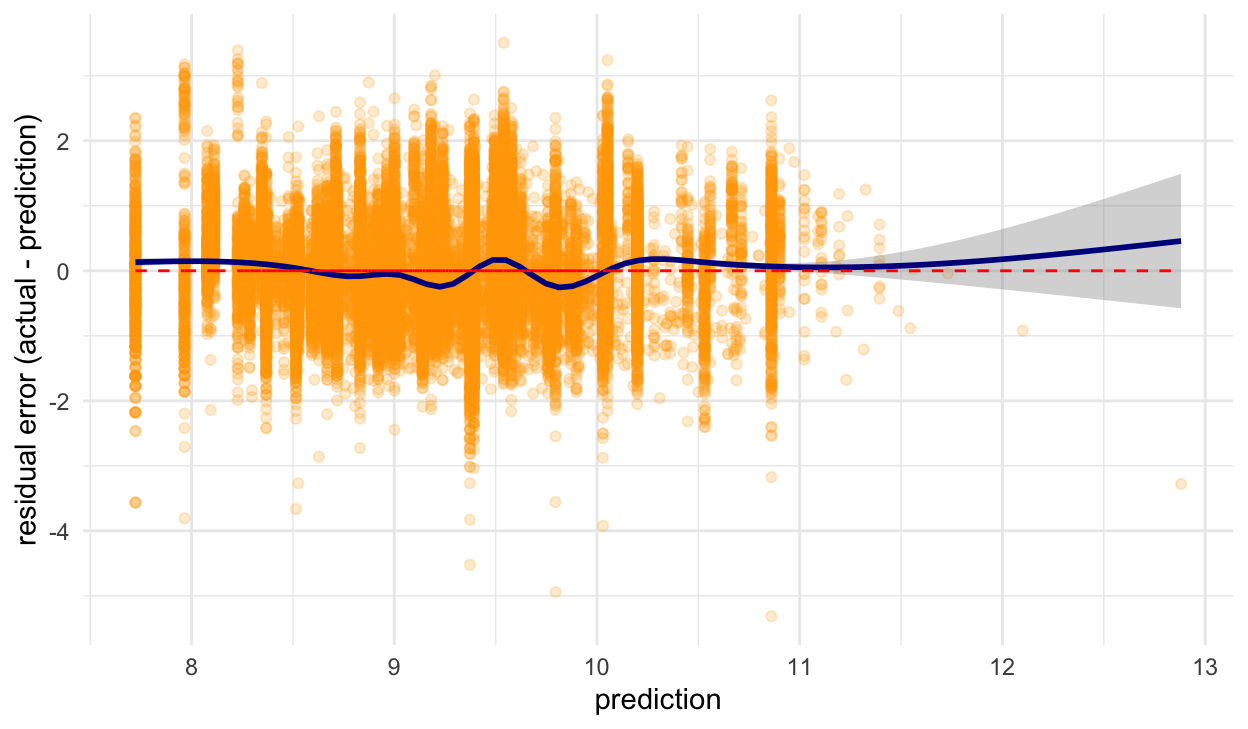
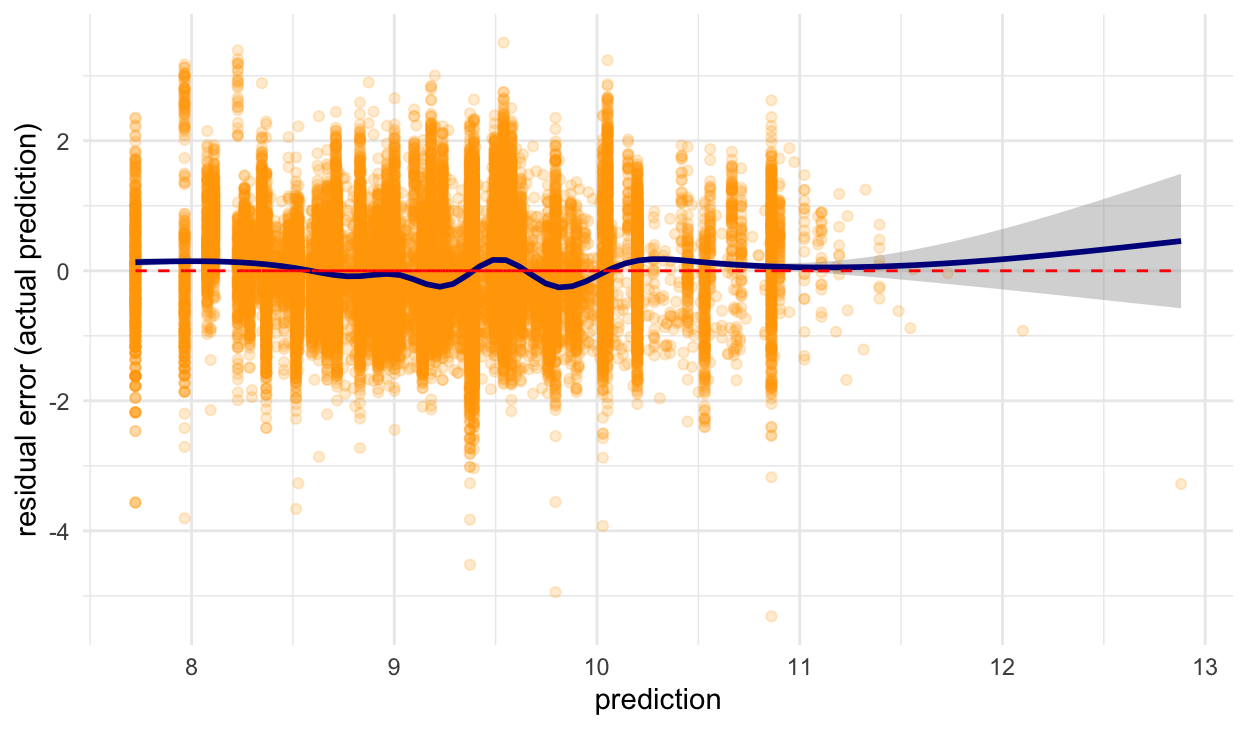
lec

Changed region(s): [[0.0, 0.1509, 0.0312, 0.7545]]

diff --git a/lec01.html b/lec01.html
@@ -87,7 +87,7 @@ code span.wa { color: #5e5e5e; font-style: italic; } /* Warning */
 
 
   <!--radix_placeholder_meta_tags-->
-  <title>byeong-hak choe: Lecture - Price Elasticities of Orange Juice Demand</title>
+  <title>byeong-hak choe: Lecture Price Elasticities of Orange Juice Demand</title>
 
 
 
@@ -97,20 +97,20 @@ code span.wa { color: #5e5e5e; font-style: italic; } /* Warning */
   <meta name="article:author" content="Byeong-Hak Choe"/>
 
   <!--  https://developers.facebook.com/docs/sharing/webmasters#markup -->
-  <meta property="og:title" content="byeong-hak choe: Lecture - Price Elasticities of Orange Juice Demand"/>
+  <meta property="og:title" content="byeong-hak choe: Lecture Price Elasticities of Orange Juice Demand"/>
   <meta property="og:type" content="article"/>
   <meta property="og:locale" content="en_US"/>
   <meta property="og:site_name" content="byeong-hak choe"/>
 
   <!--  https://dev.twitter.com/cards/types/summary -->
   <meta property="twitter:card" content="summary"/>
-  <meta property="twitter:title" content="byeong-hak choe: Lecture - Price Elasticities of Orange Juice Demand"/>
+  <meta property="twitter:title" content="byeong-hak choe: Lecture Price Elasticities of Orange Juice Demand"/>
 
   <!--/radix_placeholder_meta_tags-->
   <!--radix_placeholder_rmarkdown_metadata-->
 
   <script type="text/json" id="radix-rmarkdown-metadata">
-  {"type":"list","attributes":{"names":{"type":"character","attributes":{},"value":["title","author","date"]}},"value":[{"type":"character","attributes":{},"value":["Lecture - Price Elasticities of Orange Juice Demand"]},{"type":"list","attributes":{},"value":[{"type":"list","attributes":{"names":{"type":"character","attributes":{},"value":["name"]}},"value":[{"type":"character","attributes":{},"value":["Byeong-Hak Choe"]}]}]},{"type":"character","attributes":{},"value":["February 4, 2022"]}]}
+  {"type":"list","attributes":{"names":{"type":"character","attributes":{},"value":["title","author","date"]}},"value":[{"type":"character","attributes":{},"value":["Lecture Price Elasticities of Orange Juice Demand"]},{"type":"list","attributes":{},"value":[{"type":"list","attributes":{"names":{"type":"character","attributes":{},"value":["name"]}},"value":[{"type":"character","attributes":{},"value":["Byeong-Hak Choe"]}]}]},{"type":"character","attributes":{},"value":["February 4, 2022"]}]}
   </script>
   <!--/radix_placeholder_rmarkdown_metadata-->
   <!--radix_placeholder_navigation_in_header-->
@@ -2443,7 +2443,7 @@ code span.wa { color: #5e5e5e; font-style: italic; } /* Warning */
 <!--radix_placeholder_front_matter-->
 
 <script id="distill-front-matter" type="text/json">
-{"title":"Lecture - Price Elasticities of Orange Juice Demand","authors":[{"author":"Byeong-Hak Choe","authorURL":"#","affiliation":"&nbsp;","affiliationURL":"#","orcidID":""}],"publishedDate":"2022-02-04T00:00:00.000-05:00","citationText":"Choe, 2022"}
+{"title":"Lecture Price Elasticities of Orange Juice Demand","authors":[{"author":"Byeong-Hak Choe","authorURL":"#","affiliation":"&nbsp;","affiliationURL":"#","orcidID":""}],"publishedDate":"2022-02-04T00:00:00.000-05:00","citationText":"Choe, 2022"}
 </script>
 
 <!--/radix_placeholder_front_matter-->
@@ -2480,7 +2480,7 @@ LECTURE
 <!--/radix_placeholder_site_before_body-->
 
 <div class="d-title">
-<h1>Lecture - Price Elasticities of Orange Juice Demand</h1>
+<h1>Lecture Price Elasticities of Orange Juice Demand</h1>
 <!--radix_placeholder_categories-->
 <!--/radix_placeholder_categories-->
 
@@ -2496,18 +2496,12 @@ LECTURE
 <div class="d-article">
 <p>This is an example of the lecture on estimating price elasticity via the model of linear regression with interaction terms using data for orange juice sales. The example is taken from the book, “<a href="https://www.amazon.com/Business-Data-Science-Combining-Accelerate/dp/1260452778">Business Data Science: Combining Machine Learning and Economics to Optimize, Automate, and Accelerate Business Decisions</a>,” and modified by Byeong-Hak Choe.</p>
 <h1 id="orange-juice-regression">Orange juice regression</h1>
-<!-- ## Price elasticity of demand -->
-<ul>
-<li>Price elasticity of demand measures how sensitive the quantity demanded is to its price.</li>
-</ul>
+<h2 id="price-elasticity-of-demand">Price elasticity of demand</h2>
+<p>Price elasticity of demand measures how sensitive the quantity demanded is to its price.</p>
 <p><span class="math inline">\(\texttt{Price elasticity of demand} = \dfrac{\texttt{% Change in quantity demanded}}{\texttt{% Change in price}}\)</span></p>
-<ul>
-<li><p>The concept of the elasticity plays an important role in industries.</p>
-<ul>
-<li>Marketers need to understand how consumers are sensitive to fluctuations in price.</li>
-</ul></li>
-</ul>
-<!-- ## Loading R packages and orange juice data -->
+<p>The concept of the elasticity plays an important role in industries.</p>
+<p>Marketers need to understand how consumers are sensitive to fluctuations in price.</p>
+<h2 id="loading-r-packages-and-orange-juice-data">Loading R packages and orange juice data</h2>
 <div class="layout-chunk" data-layout="l-body">
 <div class="sourceCode">
 <pre class="sourceCode r"><code class="sourceCode r"><span class='co'># install.packages("")  # in case you need to install the following R packages</span>
@@ -2520,9 +2514,7 @@ LECTURE
 </code></pre>
 </div>
 </div>
-<ul>
-<li>We will use weekly sales data for orange juice (OJ) from Dominick’s grocery stores in the 1990s.</li>
-</ul>
+<p>We will use weekly sales data for orange juice (OJ) from Dominick’s grocery stores in the 1990s.</p>
 <div class="layout-chunk" data-layout="l-body">
 <div class="sourceCode">
 <pre class="sourceCode r"><code class="sourceCode r"><span class='va'>oj</span> <span class='op'>&lt;-</span> <span class='fu'><a href='https://rdrr.io/r/utils/read.table.html'>read.table</a></span><span class='op'>(</span>
@@ -2534,8 +2526,8 @@ LECTURE
 </code></pre>
 </div>
 </div>
-<!-- # Descriptive statistics -->
-<!-- ## OJ data -->
+<h1 id="descriptive-statistics">Descriptive statistics</h1>
+<h2 id="oj-data">OJ data</h2>
 <div class="layout-chunk" data-layout="l-body">
 <div class="sourceCode">
 <pre class="sourceCode r"><code class="sourceCode r"><span class='fu'><a href='https://rdrr.io/r/utils/head.html'>head</a></span><span class='op'>(</span><span class='va'>oj</span><span class='op'>)</span>
@@ -2687,11 +2679,9 @@ LECTURE
 </tbody>
 </table>
 </div>
-<!-- # Visualizing OJ data -->
-<!-- ## Distribution of OJ prices -->
-<ul>
-<li>It is better to use a logarithmic scale when percent change matters.</li>
-</ul>
+<h1 id="visualizing-oj-data">Visualizing OJ data</h1>
+<h2 id="distribution-of-oj-prices">Distribution of OJ prices</h2>
+<p>It is better to use a logarithmic scale when percent change matters.</p>
 <div class="layout-chunk" data-layout="l-body">
 <div class="sourceCode">
 <pre class="sourceCode r"><code class="sourceCode r"><span class='fu'><a href='https://ggplot2.tidyverse.org/reference/ggplot.html'>ggplot</a></span><span class='op'>(</span>data <span class='op'>=</span> <span class='va'>oj</span><span class='op'>)</span> <span class='op'>+</span> 
@@ -2701,7 +2691,7 @@ LECTURE
 </div>
 <p><img src="lec01_files/figure-html5/unnamed-chunk-6-1.png" width="624" style="display: block; margin: auto;" /></p>
 </div>
-<!-- ## Distribution of OJ sales -->
+<h2 id="distribution-of-oj-sales">Distribution of OJ sales</h2>
 <div class="layout-chunk" data-layout="l-body">
 <div class="sourceCode">
 <pre class="sourceCode r"><code class="sourceCode r"><span class='fu'><a href='https://ggplot2.tidyverse.org/reference/ggplot.html'>ggplot</a></span><span class='op'>(</span>data <span class='op'>=</span> <span class='va'>oj</span><span class='op'>)</span> <span class='op'>+</span> 
@@ -2711,7 +2701,7 @@ LECTURE
 </div>
 <p><img src="lec01_files/figure-html5/unnamed-chunk-7-1.png" width="624" style="display: block; margin: auto;" /></p>
 </div>
-<!-- ## Demand for OJ -->
+<h2 id="demand-for-oj">Demand for OJ</h2>
 <div class="layout-chunk" data-layout="l-body">
 <div class="sourceCode">
 <pre class="sourceCode r"><code class="sourceCode r"><span class='fu'><a href='https://ggplot2.tidyverse.org/reference/ggplot.html'>ggplot</a></span><span class='op'>(</span>data <span class='op'>=</span> <span class='va'>oj</span>, <span class='fu'><a href='https://ggplot2.tidyverse.org/reference/aes.html'>aes</a></span><span class='op'>(</span> x <span class='op'>=</span> <span class='fu'><a href='https://rdrr.io/r/base/Log.html'>log</a></span><span class='op'>(</span><span class='va'>price</span><span class='op'>)</span>, y <span class='op'>=</span> <span class='fu'><a href='https://rdrr.io/r/base/Log.html'>log</a></span><span class='op'>(</span><span class='va'>sales</span><span class='op'>)</span>, 
@@ -2721,21 +2711,15 @@ LECTURE
 </div>
 <p><img src="lec01_files/figure-html5/unnamed-chunk-8-1.png" width="624" style="display: block; margin: auto;" /></p>
 </div>
-<!-- # Regression models -->
-<!-- ## Regression model with brand dummies -->
-<ul>
-<li>The regression model for price elasticity of OJ demand can be written as:</li>
-</ul>
+<h1 id="regression-models">Regression models</h1>
+<h2 id="regression-model-with-brand-dummies">Regression model with brand dummies</h2>
+<p>The regression model for price elasticity of OJ demand can be written as:</p>
 <p><span class="math inline">\(\log(\texttt{sales}) = \alpha_{\texttt{brand}} + \beta\log(\texttt{price}) + \epsilon\)</span></p>
-<ul>
-<li>Here <span class="math inline">\(\alpha_{\texttt{brand}}\)</span> is shorthand for a separate indicator for each OJ brand:</li>
-</ul>
+<p>Here <span class="math inline">\(\alpha_{\texttt{brand}}\)</span> is shorthand for a separate indicator for each OJ brand:</p>
 <p><span class="math inline">\(\alpha_{\texttt{brand}} = \alpha_{\texttt{d}}1_{\texttt{[brand=dominicks]}}+\alpha_{\texttt{m}}1_{\texttt{[brand=minut.emaid]}}+\alpha_{\texttt{t}}1_{\texttt{[brand=tropicana]}}\)</span></p>
-<ul>
-<li>Here <span class="math inline">\(\beta\)</span> measures the price elasticity of OJ demand:</li>
-</ul>
+<p>Here <span class="math inline">\(\beta\)</span> measures the price elasticity of OJ demand:</p>
 <p><span class="math inline">\(\beta = \dfrac{\Delta\log(\texttt{sales})}{\Delta\log(\texttt{price})}\\\hspace{.25cm} = \texttt{(% change in sales)} / \texttt{(% change in price)}\)</span></p>
-<!-- ## Run the model  -->
+<h2 id="run-the-model">Run the model</h2>
 <div class="layout-chunk" data-layout="l-body">
 <div class="sourceCode">
 <pre class="sourceCode r"><code class="sourceCode r"><span class='va'>reg_oj1</span> <span class='op'>&lt;-</span> <span class='fu'><a href='https://rdrr.io/r/stats/lm.html'>lm</a></span><span class='op'>(</span><span class='fu'><a href='https://rdrr.io/r/base/Log.html'>log</a></span><span class='op'>(</span><span class='va'>sales</span><span class='op'>)</span> <span class='op'>~</span> <span class='fu'><a href='https://rdrr.io/r/base/Log.html'>log</a></span><span class='op'>(</span><span class='va'>price</span><span class='op'>)</span> <span class='op'>+</span> <span class='va'>brand</span>, 
@@ -2893,7 +2877,7 @@ F Statistic
 </tr>
 </table>
 </div>
-<!-- ## Regression lines -->
+<h2 id="regression-lines">Regression lines</h2>
 <div class="layout-chunk" data-layout="l-body">
 <div class="sourceCode">
 <pre class="sourceCode r"><code class="sourceCode r"><span class='fu'><a href='https://ggplot2.tidyverse.org/reference/ggplot.html'>ggplot</a></span><span class='op'>(</span>data <span class='op'>=</span> <span class='va'>oj</span>, <span class='fu'><a href='https://ggplot2.tidyverse.org/reference/aes.html'>aes</a></span><span class='op'>(</span>x <span class='op'>=</span> <span class='fu'><a href='https://rdrr.io/r/base/Log.html'>log</a></span><span class='op'>(</span><span class='va'>price</span><span class='op'>)</span>, y <span class='op'>=</span> <span class='fu'><a href='https://rdrr.io/r/base/Log.html'>log</a></span><span class='op'>(</span><span class='va'>sales</span><span class='op'>)</span>, 
@@ -2904,17 +2888,13 @@ F Statistic
 </div>
 <p><img src="lec01_files/figure-html5/unnamed-chunk-10-1.png" width="624" style="display: block; margin: auto;" /></p>
 </div>
-<!-- ## Regerssion model with interaction terms -->
-<ul>
-<li><p>How does consumer price sensitivity change across brands?</p></li>
-<li><p>The new regression model can be written as:</p></li>
-</ul>
+<h2 id="regerssion-model-with-interaction-terms">Regerssion model with interaction terms</h2>
+<p>How does consumer price sensitivity change across brands?</p>
+<p>The new regression model can be written as:</p>
 <p><span class="math inline">\(\log(\texttt{sales}) = \alpha_{\texttt{brand}} + \beta_{\texttt{brand}}\log(\texttt{price}) + \epsilon\)</span></p>
-<ul>
-<li>Here <span class="math inline">\(\beta_{\texttt{brand}}\)</span> is shorthand for the brand-specific price elasticity:</li>
-</ul>
+<p>Here <span class="math inline">\(\beta_{\texttt{brand}}\)</span> is shorthand for the brand-specific price elasticity:</p>
 <p><span class="math inline">\(\beta_{\texttt{brand}} = \hspace{.1cm}\beta_{\texttt{d}}1_{\texttt{[brand=dominicks]}}+\beta_{\texttt{m}}1_{\texttt{[brand=minutemaid]}}+\beta_{\texttt{t}}1_{\texttt{[brand=tropicana]}}\hspace{.1cm}\)</span></p>
-<!-- ## Run the model -->
+<h2 id="run-the-model-1">Run the model</h2>
 <div class="layout-chunk" data-layout="l-body">
 <div class="sourceCode">
 <pre class="sourceCode r"><code class="sourceCode r"><span class='va'>reg_oj2</span> <span class='op'>&lt;-</span> <span class='fu'><a href='https://rdrr.io/r/stats/lm.html'>lm</a></span><span class='op'>(</span><span class='fu'><a href='https://rdrr.io/r/base/Log.html'>log</a></span><span class='op'>(</span><span class='va'>sales</span><span class='op'>)</span> <span class='op'>~</span> <span class='fu'><a href='https://rdrr.io/r/base/Log.html'>log</a></span><span class='op'>(</span><span class='va'>price</span><span class='op'>)</span><span class='op'>*</span><span class='va'>brand</span>, 
@@ -3175,7 +3155,7 @@ F Statistic
 </tr>
 </table>
 </div>
-<!-- ## Regression lines  -->
+<h2 id="regression-lines-1">Regression lines</h2>
 <div class="layout-chunk" data-layout="l-body">
 <div class="sourceCode">
 <pre class="sourceCode r"><code class="sourceCode r"><span class='fu'><a href='https://ggplot2.tidyverse.org/reference/ggplot.html'>ggplot</a></span><span class='op'>(</span>data <span class='op'>=</span> <span class='va'>oj</span>, <span class='fu'><a href='https://ggplot2.tidyverse.org/reference/aes.html'>aes</a></span><span class='op'>(</span>x <span class='op'>=</span> <span class='fu'><a href='https://rdrr.io/r/base/Log.html'>log</a></span><span class='op'>(</span><span class='va'>price</span><span class='op'>)</span>, y <span class='op'>=</span> <span class='fu'><a href='https://rdrr.io/r/base/Log.html'>log</a></span><span class='op'>(</span><span class='va'>sales</span><span class='op'>)</span>, 
@@ -3186,17 +3166,13 @@ F Statistic
 </div>
 <p><img src="lec01_files/figure-html5/unnamed-chunk-12-1.png" width="624" style="display: block; margin: auto;" /></p>
 </div>
-<!-- ## Advertisement effect -->
-<ul>
-<li><p>How does consumer price sensitivity change with advertisement?</p></li>
-<li><p>The new regression model can be written as:</p></li>
-</ul>
+<h2 id="advertisement-effect">Advertisement effect</h2>
+<p>How does consumer price sensitivity change with advertisement?</p>
+<p>The new regression model can be written as:</p>
 <p><span class="math inline">\(\log(\texttt{sales}) = \alpha_{\texttt{brand,feat}} + \beta_{\texttt{brand,feat}}\log(\texttt{price}) + \epsilon\)</span></p>
-<ul>
-<li>Here <span class="math inline">\(\beta_{\texttt{brand,feat}}\)</span> measures the brand-feat-specific price elasticity:</li>
-</ul>
+<p>Here <span class="math inline">\(\beta_{\texttt{brand,feat}}\)</span> measures the brand-feat-specific price elasticity:</p>
 <p><span class="math inline">\(\beta_{\texttt{brand,feat}} = \hspace{.3cm}(\hspace{.1cm} \beta_{\texttt{d,no_ad}}1_{\texttt{[brand=dominicks]}}+\beta_{\texttt{m,no_ad}}1_{\texttt{[brand=minutemaid]}}\\\hspace{5.25cm}+\beta_{\texttt{t,no_ad}}1_{\texttt{[brand=tropicana]}}\hspace{.1cm})\times1_{\texttt{[feat=0]}}\\ \hspace{4.25cm} + (\hspace{.1cm}\beta_{\texttt{d,ad}}1_{\texttt{[brand=dominicks]}}+\beta_{\texttt{m,ad}}1_{\texttt{[brand=minutemaid]}}\\\hspace{5.25cm}+\beta_{\texttt{t,ad}}1_{\texttt{[brand=tropicana]}}\hspace{.1cm})\times1_{\texttt{[feat=1]}}\)</span></p>
-<!-- ## Run the model -->
+<h2 id="run-the-model-2">Run the model</h2>
 <div class="layout-chunk" data-layout="l-body">
 <div class="sourceCode">
 <pre class="sourceCode r"><code class="sourceCode r"><span class='va'>reg_oj3</span> <span class='op'>&lt;-</span> <span class='fu'><a href='https://rdrr.io/r/stats/lm.html'>lm</a></span><span class='op'>(</span><span class='fu'><a href='https://rdrr.io/r/base/Log.html'>log</a></span><span class='op'>(</span><span class='va'>sales</span><span class='op'>)</span> <span class='op'>~</span> <span class='fu'><a href='https://rdrr.io/r/base/Log.html'>log</a></span><span class='op'>(</span><span class='va'>price</span><span class='op'>)</span><span class='op'>*</span><span class='va'>brand</span><span class='op'>*</span><span class='va'>feat</span>, 
@@ -3713,7 +3689,7 @@ F Statistic
 </tr>
 </table>
 </div>
-<!-- ## Regression lines -->
+<h2 id="regression-lines-2">Regression lines</h2>
 <div class="layout-chunk" data-layout="l-body">
 <div class="sourceCode">
 <pre class="sourceCode r"><code class="sourceCode r"><span class='fu'><a href='https://ggplot2.tidyverse.org/reference/ggplot.html'>ggplot</a></span><span class='op'>(</span>data <span class='op'>=</span> <span class='va'>oj</span>, <span class='fu'><a href='https://ggplot2.tidyverse.org/reference/aes.html'>aes</a></span><span class='op'>(</span>x <span class='op'>=</span> <span class='fu'><a href='https://rdrr.io/r/base/Log.html'>log</a></span><span class='op'>(</span><span class='va'>price</span><span class='op'>)</span>, y <span class='op'>=</span> <span class='fu'><a href='https://rdrr.io/r/base/Log.html'>log</a></span><span class='op'>(</span><span class='va'>sales</span><span class='op'>)</span>, color <span class='op'>=</span> <span class='va'>brand</span> <span class='op'>)</span><span class='op'>)</span> <span class='op'>+</span>
@@ -3724,7 +3700,7 @@ F Statistic
 </div>
 <p><img src="lec01_files/figure-html5/unnamed-chunk-14-1.png" width="624" style="display: block; margin: auto;" /></p>
 </div>
-<!-- ## Price elasticities of OJ -->
+<h2 id="price-elasticities-of-oj">Price elasticities of OJ</h2>
 <div class="layout-chunk" data-layout="l-body">
 <table>
 <thead>
@@ -3763,14 +3739,10 @@ F Statistic
 </tbody>
 </table>
 </div>
-<ul>
-<li><p>Which model is better?</p>
-<ul>
-<li><p>Which model is more realistic?</p></li>
-<li><p>Why does being featured always lead to more price sensitivity?</p></li>
-</ul></li>
-</ul>
-<!-- ## The relationship between ad and brand -->
+<p>Which model is better?</p>
+<p>Which model is more realistic?</p>
+<p>Why does being featured always lead to more price sensitivity?</p>
+<h2 id="the-relationship-between-ad-and-brand">The relationship between ad and brand</h2>
 <div class="layout-chunk" data-layout="l-body">
 <div class="sourceCode">
 <pre class="sourceCode r"><code class="sourceCode r"><span class='va'>by_brand</span> <span class='op'>&lt;-</span> <span class='fu'><a href='https://dplyr.tidyverse.org/reference/group_by.html'>group_by</a></span><span class='op'>(</span><span class='va'>oj</span>, <span class='va'>brand</span>, <span class='va'>feat</span><span class='op'>)</span>
@@ -3819,15 +3791,11 @@ F Statistic
 </div>
 <p><img src="lec01_files/figure-html5/unnamed-chunk-19-1.png" width="624" style="display: block; margin: auto;" /></p>
 </div>
-<!-- ## Residual plot and model fit -->
-<ul>
-<li><p>Which model is better?</p>
-<ul>
-<li><p>On average, are the predictions correct?</p></li>
-<li><p>Are there systematic errors in prediction?</p></li>
-</ul></li>
-<li><p>Predicted log of sales can be calculated as follows:</p></li>
-</ul>
+<h2 id="residual-plot-and-model-fit">Residual plot and model fit</h2>
+<p>Which model is better?</p>
+<p>On average, are the predictions correct?</p>
+<p>Are there systematic errors in prediction?</p>
+<p>Predicted log of sales can be calculated as follows:</p>
 <div class="layout-chunk" data-layout="l-body">
 <div class="sourceCode">
 <pre class="sourceCode r"><code class="sourceCode r"><span class='va'>oj</span><span class='op'>$</span><span class='va'>predLogSales1</span> <span class='op'>&lt;-</span> <span class='fu'><a href='https://rdrr.io/r/stats/predict.html'>predict</a></span><span class='op'>(</span><span class='va'>reg_oj1</span>, newdata <span class='op'>=</span> <span class='va'>oj</span><span class='op'>)</span>
@@ -3836,38 +3804,38 @@ F Statistic
 </code></pre>
 </div>
 </div>
-<!-- ## Residual plot for model 1 -->
+<h2 id="residual-plot-for-model-1">Residual plot for model 1</h2>
 <div class="layout-chunk" data-layout="l-body">
 <div class="sourceCode">
 <pre class="sourceCode r"><code class="sourceCode r"><span class='co'># Residual plot 1</span>
 <span class='fu'><a href='https://ggplot2.tidyverse.org/reference/ggplot.html'>ggplot</a></span><span class='op'>(</span>data <span class='op'>=</span> <span class='va'>oj</span>, <span class='fu'><a href='https://ggplot2.tidyverse.org/reference/aes.html'>aes</a></span><span class='op'>(</span>x <span class='op'>=</span> <span class='va'>predLogSales1</span>, y <span class='op'>=</span> <span class='fu'><a href='https://rdrr.io/r/base/Log.html'>log</a></span><span class='op'>(</span><span class='va'>sales</span><span class='op'>)</span> <span class='op'>-</span> <span class='va'>predLogSales1</span> <span class='op'>)</span><span class='op'>)</span> <span class='op'>+</span>
   <span class='fu'><a href='https://ggplot2.tidyverse.org/reference/geom_point.html'>geom_point</a></span><span class='op'>(</span>alpha <span class='op'>=</span> <span class='fl'>0.2</span>, color <span class='op'>=</span> <span class='st'>"orange"</span><span class='op'>)</span> <span class='op'>+</span> <span class='fu'><a href='https://ggplot2.tidyverse.org/reference/geom_smooth.html'>geom_smooth</a></span><span class='op'>(</span>color <span class='op'>=</span> <span class='st'>"darkblue"</span><span class='op'>)</span> <span class='op'>+</span>
   <span class='fu'><a href='https://ggplot2.tidyverse.org/reference/geom_path.html'>geom_line</a></span><span class='op'>(</span><span class='fu'><a href='https://ggplot2.tidyverse.org/reference/aes.html'>aes</a></span><span class='op'>(</span>x <span class='op'>=</span> <span class='va'>predLogSales1</span>, y <span class='op'>=</span> <span class='fl'>0</span><span class='op'>)</span>, color <span class='op'>=</span> <span class='st'>"red"</span>, linetype <span class='op'>=</span> <span class='fl'>2</span><span class='op'>)</span> <span class='op'>+</span>
-  <span class='fu'><a href='https://ggplot2.tidyverse.org/reference/labs.html'>xlab</a></span><span class='op'>(</span><span class='st'>"prediction"</span><span class='op'>)</span> <span class='op'>+</span> <span class='fu'><a href='https://ggplot2.tidyverse.org/reference/labs.html'>ylab</a></span><span class='op'>(</span><span class='st'>"residual error (actual - prediction)"</span><span class='op'>)</span>
+  <span class='fu'><a href='https://ggplot2.tidyverse.org/reference/labs.html'>xlab</a></span><span class='op'>(</span><span class='st'>"prediction"</span><span class='op'>)</span> <span class='op'>+</span> <span class='fu'><a href='https://ggplot2.tidyverse.org/reference/labs.html'>ylab</a></span><span class='op'>(</span><span class='st'>"residual error (actual prediction)"</span><span class='op'>)</span>
 </code></pre>
 </div>
 <p><img src="lec01_files/figure-html5/unnamed-chunk-21-1.png" width="624" style="display: block; margin: auto;" /></p>
 </div>
-<!-- ## Residual plot for model 2 -->
+<h2 id="residual-plot-for-model-2">Residual plot for model 2</h2>
 <div class="layout-chunk" data-layout="l-body">
 <div class="sourceCode">
 <pre class="sourceCode r"><code class="sourceCode r"><span class='co'># Residual plot 2</span>
 <span class='fu'><a href='https://ggplot2.tidyverse.org/reference/ggplot.html'>ggplot</a></span><span class='op'>(</span>data <span class='op'>=</span> <span class='va'>oj</span>, <span class='fu'><a href='https://ggplot2.tidyverse.org/reference/aes.html'>aes</a></span><span class='op'>(</span>x <span class='op'>=</span> <span class='va'>predLogSales2</span>, y <span class='op'>=</span> <span class='fu'><a href='https://rdrr.io/r/base/Log.html'>log</a></span><span class='op'>(</span><span class='va'>sales</span><span class='op'>)</span> <span class='op'>-</span> <span class='va'>predLogSales2</span> <span class='op'>)</span><span class='op'>)</span> <span class='op'>+</span>
   <span class='fu'><a href='https://ggplot2.tidyverse.org/reference/geom_point.html'>geom_point</a></span><span class='op'>(</span>alpha <span class='op'>=</span> <span class='fl'>0.2</span>, color <span class='op'>=</span> <span class='st'>"orange"</span><span class='op'>)</span> <span class='op'>+</span> <span class='fu'><a href='https://ggplot2.tidyverse.org/reference/geom_smooth.html'>geom_smooth</a></span><span class='op'>(</span>color <span class='op'>=</span> <span class='st'>"darkblue"</span><span class='op'>)</span> <span class='op'>+</span>
   <span class='fu'><a href='https://ggplot2.tidyverse.org/reference/geom_path.html'>geom_line</a></span><span class='op'>(</span><span class='fu'><a href='https://ggplot2.tidyverse.org/reference/aes.html'>aes</a></span><span class='op'>(</span>x <span class='op'>=</span> <span class='va'>predLogSales2</span>, y <span class='op'>=</span> <span class='fl'>0</span><span class='op'>)</span>, color <span class='op'>=</span> <span class='st'>"red"</span>, linetype <span class='op'>=</span> <span class='fl'>2</span><span class='op'>)</span> <span class='op'>+</span>
-  <span class='fu'><a href='https://ggplot2.tidyverse.org/reference/labs.html'>xlab</a></span><span class='op'>(</span><span class='st'>"prediction"</span><span class='op'>)</span> <span class='op'>+</span> <span class='fu'><a href='https://ggplot2.tidyverse.org/reference/labs.html'>ylab</a></span><span class='op'>(</span><span class='st'>"residual error (actual - prediction)"</span><span class='op'>)</span>
+  <span class='fu'><a href='https://ggplot2.tidyverse.org/reference/labs.html'>xlab</a></span><span class='op'>(</span><span class='st'>"prediction"</span><span class='op'>)</span> <span class='op'>+</span> <span class='fu'><a href='https://ggplot2.tidyverse.org/reference/labs.html'>ylab</a></span><span class='op'>(</span><span class='st'>"residual error (actual prediction)"</span><span class='op'>)</span>
 </code></pre>
 </div>
 <p><img src="lec01_files/figure-html5/unnamed-chunk-22-1.png" width="624" style="display: block; margin: auto;" /></p>
 </div>
-<!-- ## Residual plot for model 3 -->
+<h2 id="residual-plot-for-model-3">Residual plot for model 3</h2>
 <div class="layout-chunk" data-layout="l-body">
 <div class="sourceCode">
 <pre class="sourceCode r"><code class="sourceCode r"><span class='co'># Residual plot 3</span>
 <span class='fu'><a href='https://ggplot2.tidyverse.org/reference/ggplot.html'>ggplot</a></span><span class='op'>(</span>data <span class='op'>=</span> <span class='va'>oj</span>, <span class='fu'><a href='https://ggplot2.tidyverse.org/reference/aes.html'>aes</a></span><span class='op'>(</span>x <span class='op'>=</span> <span class='va'>predLogSales3</span>, y <span class='op'>=</span> <span class='fu'><a href='https://rdrr.io/r/base/Log.html'>log</a></span><span class='op'>(</span><span class='va'>sales</span><span class='op'>)</span> <span class='op'>-</span> <span class='va'>predLogSales3</span> <span class='op'>)</span><span class='op'>)</span> <span class='op'>+</span>
   <span class='fu'><a href='https://ggplot2.tidyverse.org/reference/geom_point.html'>geom_point</a></span><span class='op'>(</span>alpha <span class='op'>=</span> <span class='fl'>0.2</span>, color <span class='op'>=</span> <span class='st'>"orange"</span><span class='op'>)</span> <span class='op'>+</span> <span class='fu'><a href='https://ggplot2.tidyverse.org/reference/geom_smooth.html'>geom_smooth</a></span><span class='op'>(</span>color <span class='op'>=</span> <span class='st'>"darkblue"</span><span class='op'>)</span> <span class='op'>+</span>
   <span class='fu'><a href='https://ggplot2.tidyverse.org/reference/geom_path.html'>geom_line</a></span><span class='op'>(</span><span class='fu'><a href='https://ggplot2.tidyverse.org/reference/aes.html'>aes</a></span><span class='op'>(</span>x <span class='op'>=</span> <span class='va'>predLogSales3</span>, y <span class='op'>=</span> <span class='fl'>0</span><span class='op'>)</span>, color <span class='op'>=</span> <span class='st'>"red"</span>, linetype <span class='op'>=</span> <span class='fl'>2</span><span class='op'>)</span> <span class='op'>+</span>
-  <span class='fu'><a href='https://ggplot2.tidyverse.org/reference/labs.html'>xlab</a></span><span class='op'>(</span><span class='st'>"prediction"</span><span class='op'>)</span> <span class='op'>+</span> <span class='fu'><a href='https://ggplot2.tidyverse.org/reference/labs.html'>ylab</a></span><span class='op'>(</span><span class='st'>"residual error (actual - prediction)"</span><span class='op'>)</span>
+  <span class='fu'><a href='https://ggplot2.tidyverse.org/reference/labs.html'>xlab</a></span><span class='op'>(</span><span class='st'>"prediction"</span><span class='op'>)</span> <span class='op'>+</span> <span class='fu'><a href='https://ggplot2.tidyverse.org/reference/labs.html'>ylab</a></span><span class='op'>(</span><span class='st'>"residual error (actual prediction)"</span><span class='op'>)</span>
 </code></pre>
 </div>
 <p><img src="lec01_files/figure-html5/unnamed-chunk-23-1.png" width="624" style="display: block; margin: auto;" /></p>
